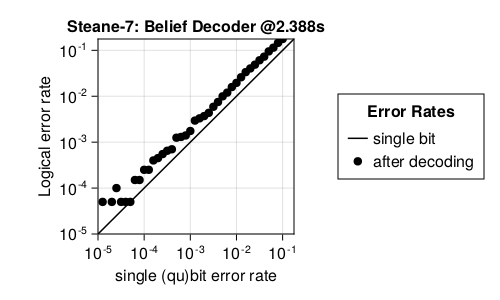
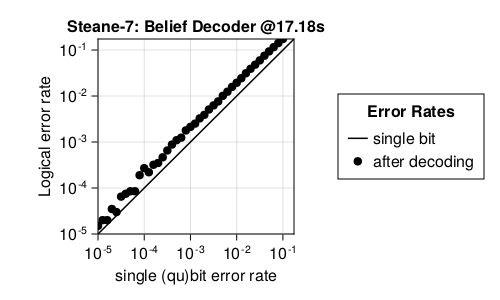
Fixed issues with code testing
Fixed issue with code testing that made degenerate codes not work (Shor-9 still does not work)

diff --git a/docs/codes/Bicycle.md b/docs/codes/Bicycle.md
@@ -7,12 +7,15 @@
 
 ## Example
 Code Tableau:
-XX_XX_X
-X__XXX_
-ZZ_ZZ_Z
-Z__ZZZ_
-- Number of qubits: N = 7
-- Number of encoded bits: k = 3
+_XX_XX__
+__XX_XX_
+X__X__XX
+_ZZ_ZZ__
+__ZZ_ZZ_
+Z__Z__ZZ
+- Number of qubits: N = 8
+- Number of encoded bits: k = 2
+- The Bicycle code is degenerate!
 ### Syndrome Circuit:
 ![Bicycle Syndrome Circuit](images/codeplots/Bicycle-codeplot.png)
 
@@ -20,13 +23,17 @@ Z__ZZZ_
 
 This code was tested with the following decoders:
 
-**Lookup table:** Ran in 1.075s
+**Lookup table:** Ran in 8.36s
 
 ![Bicycle Truth Table PP](images\performanceplots\Bicycle-lookuptable.png)
 
-**Belief decoder:** Ran in 4.17s
+**Belief decoder:** Ran in 27.8s
 
-![Bicycle Belief Decoder PP](images\performanceplots\Bicycle-belief.png)
+![Bicycle Belief Decoder X PP](images\performanceplots\Bicycle-beliefx.png)
+
+**Belief decoder:** Ran in 27.8s
+
+![Bicycle Belief Decoder Z PP](images\performanceplots\Bicycle-beliefz.png)
 
 ## 
 

diff --git a/docs/codes/Steane-7.md b/docs/codes/Steane-7.md
@@ -14,6 +14,7 @@ _ZZ__ZZ
 Z_Z_Z_Z
 - Number of qubits: N = 7
 - Number of encoded bits: k = 1
+- The Steane-7 code is not degenerate.
 ### Syndrome Circuit:
 ![Steane-7 Syndrome Circuit](images/codeplots/Steane-7-codeplot.png)
 
@@ -21,13 +22,17 @@ Z_Z_Z_Z
 
 This code was tested with the following decoders:
 
-**Lookup table:** Ran in 1.226s
+**Lookup table:** Ran in 0.0711s
 
 ![Steane-7 Truth Table PP](images\performanceplots\Steane-7-lookuptable.png)
 
-**Belief decoder:** Ran in 2.388s
+**Belief decoder:** Ran in 18.32s
 
-![Steane-7 Belief Decoder PP](images\performanceplots\Steane-7-belief.png)
+![Steane-7 Belief Decoder X PP](images\performanceplots\Steane-7-beliefx.png)
+
+**Belief decoder:** Ran in 18.32s
+
+![Steane-7 Belief Decoder Z PP](images\performanceplots\Steane-7-beliefz.png)
 
 ## 
 
